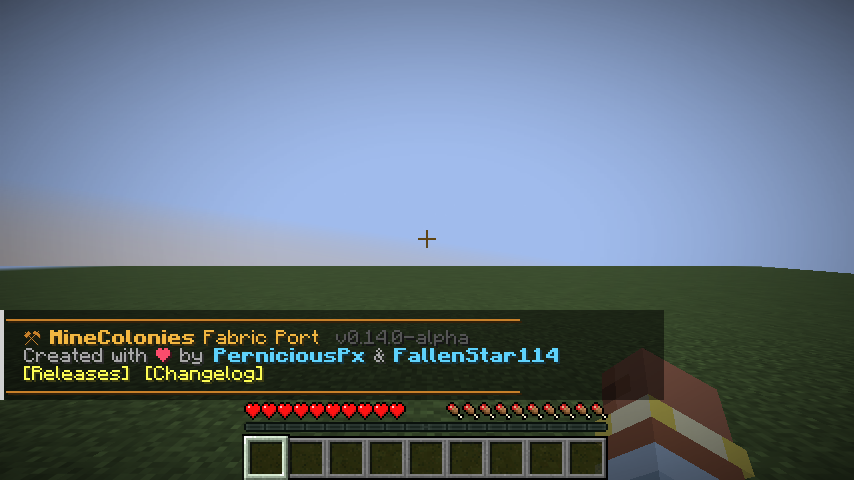
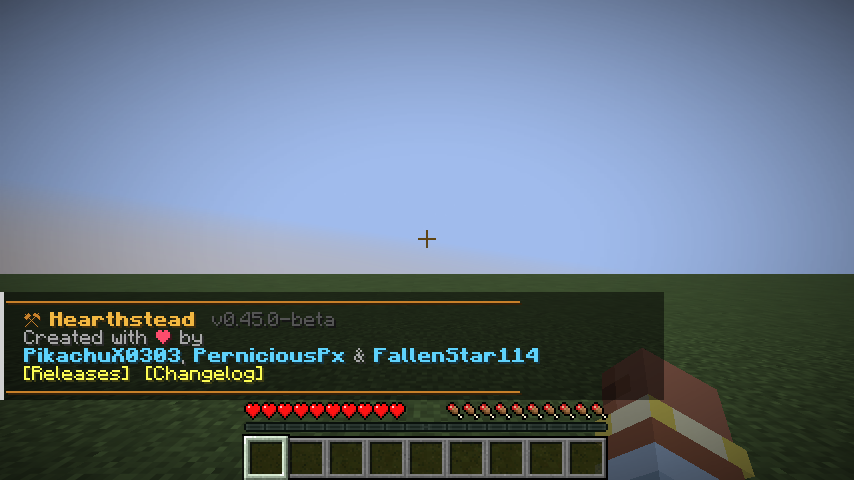
Hearthstead 0.45.0-beta: leave alpha
- Status changed to beta; the README describes what is in, what is
  still missing, and asks for backups and bug reports
- README brought up to date: requirements, every hut and town hall
  window tab, the Clipboard, all 49 blueprint folders, the colony
  distance and the build setup
- Mod icon (generated by tools/generate_textures.py), shown in Mod Menu
  and the README; homepage and issue links in fabric.mod.json
- The welcome message credits PikachuX0303, PerniciousPx and
  FallenStar114, with the names on their own line so chat does not
  wrap them
- CLAUDE.md: beta version scheme and the new generated asset

Changed region(s): [[0.0, 0.5312, 0.9742, 0.7812]]

diff --git a/tools/generate_textures.py b/tools/generate_textures.py
@@ -1,8 +1,9 @@
 #!/usr/bin/env python3
 """Draws the mod's textures: the barbarian and pirate skins (64x64, standard humanoid layout) and
-the build tool and clipboard icons (16x16).
+the build tool and clipboard icons (16x16), and the mod icon shown by Mod Menu (128x128).
 
-Output: src/main/resources/assets/hearthstead/textures/entity/barbarian/<kind>.png
+Output: src/main/resources/assets/hearthstead/icon.png
+        src/main/resources/assets/hearthstead/textures/entity/barbarian/<kind>.png
         src/main/resources/assets/hearthstead/textures/item/build_tool.png
         src/main/resources/assets/hearthstead/textures/item/clipboard.png
 """
@@ -280,7 +281,66 @@ def clipboard():
     return img
 
 
+def mod_icon():
+    """128x128 mod icon (drawn at 32x32 and scaled up): a cottage with a lit window and a smoking
+    chimney on a grassy hill at dusk."""
+    size = 32
+    img = Image.new("RGBA", (size, size), (0, 0, 0, 0))
+    rng = random.Random(11)
+    top, bottom = (40, 44, 92), (226, 128, 74)
+    for y in range(size):                   # dusk sky, rounded corners
+        t = y / (size - 1)
+        sky = tuple(round(a + (b - a) * t) for a, b in zip(top, bottom))
+        for x in range(size):
+            corner = min(x, size - 1 - x) + min(y, size - 1 - y)
+            if corner >= 2:
+                img.putpixel((x, y), sky + (255,))
+    for x, y in ((4, 4), (9, 2), (26, 3), (21, 6), (29, 9)):  # first stars
+        img.putpixel((x, y), (250, 240, 200, 255))
+    grass, grass_dark, dirt = (92, 150, 62), (66, 116, 46), (120, 84, 52)
+    for x in range(size):                   # the hill
+        crest = 23 + round(2.2 * ((x - 15.5) / 16) ** 2 * 2)
+        for y in range(crest, size):
+            corner = min(x, size - 1 - x) + min(y, size - 1 - y)
+            if corner < 2:
+                continue
+            color = grass if y - crest < 2 else (grass_dark if y - crest < 3 else dirt)
+            img.putpixel((x, y), shade(color, rng, 10))
+    wall, wall_dark, beam = (214, 196, 160), (176, 156, 120), (98, 64, 38)
+    for x in range(9, 23):                  # walls with a timber frame
+        for y in range(15, 24):
+            frame = x in (9, 22) or y in (15, 23) or x == 15
+            img.putpixel((x, y), shade(beam if frame else (wall_dark if x > 18 else wall), rng, 6))
+    roof, roof_dark = (168, 62, 44), (120, 40, 30)
+    for row in range(8):                    # gable roof
+        y = 7 + row
+        for x in range(15 - row - 1, 17 + row + 1):
+            if 7 <= x <= 24:
+                edge = x in (15 - row - 1, 16 + row)
+                img.putpixel((x, y), shade(roof_dark if edge or row == 7 else roof, rng, 8))
+    stone = (128, 124, 120)
+    for x in range(19, 22):                 # chimney
+        for y in range(6, 11):
+            img.putpixel((x, y), shade(stone, rng, 12))
+    for x, y, a in ((20, 4, 200), (21, 3, 170), (22, 1, 130), (23, 2, 110), (21, 0, 90)):  # smoke
+        img.putpixel((x, y), (214, 214, 220, a))
+    door = (110, 70, 40)
+    for x in range(11, 14):                 # door
+        for y in range(18, 23):
+            img.putpixel((x, y), shade(door, rng, 6))
+    img.putpixel((13, 20), (230, 190, 80, 255))
+    glow, glow_bright = (250, 186, 72), (255, 232, 140)
+    for x in range(17, 21):                 # warm window
+        for y in range(17, 21):
+            bright = x in (18, 19) and y in (18, 19)
+            img.putpixel((x, y), (glow_bright if bright else glow) + (255,))
+    for x in range(17, 21):
+        img.putpixel((x, 21), (beam[0], beam[1], beam[2], 255))
+    return img.resize((128, 128), Image.NEAREST)
+
+
 def main():
+    mod_icon().save(os.path.join(ITEM_OUT, "..", "..", "icon.png"))
     os.makedirs(ITEM_OUT, exist_ok=True)
     build_tool().save(os.path.join(ITEM_OUT, "build_tool.png"))
     clipboard().save(os.path.join(ITEM_OUT, "clipboard.png"))

diff --git a/src/main/java/dev/pikachux/hearthstead/event/WelcomeMessage.java b/src/main/java/dev/pikachux/hearthstead/event/WelcomeMessage.java
@@ -53,8 +53,12 @@ public final class WelcomeMessage {
                         .withStyle(ChatFormatting.GRAY))
                 .append(Component.literal(" ❤ ").withStyle(style -> style.withColor(HEART)))
                 .append(Component.translatableWithFallback("chat.hearthstead.welcome.by", "by")
-                        .withStyle(ChatFormatting.GRAY))
-                .append(Component.literal(" PerniciousPx").withStyle(style -> style.withColor(AUTHOR).withBold(true)))
+                        .withStyle(ChatFormatting.GRAY)));
+        // The three names get a line of their own so the default chat width does not wrap them.
+        player.sendSystemMessage(Component.literal("  ")
+                .append(Component.literal("PikachuX0303").withStyle(style -> style.withColor(AUTHOR).withBold(true)))
+                .append(Component.literal(", ").withStyle(ChatFormatting.GRAY))
+                .append(Component.literal("PerniciousPx").withStyle(style -> style.withColor(AUTHOR).withBold(true)))
                 .append(Component.literal(" & ").withStyle(ChatFormatting.GRAY))
                 .append(Component.literal("FallenStar114").withStyle(style -> style.withColor(AUTHOR).withBold(true))));
 

diff --git a/README.md b/README.md
@@ -1,8 +1,10 @@
 # Hearthstead (Minecraft 1.21.11, Fabric)
 
+<img src="src/main/resources/assets/hearthstead/icon.png" alt="Hearthstead icon" width="96" align="right">
+
 **Hearthstead** is a colony-building mod for Minecraft **1.21.11** on Fabric. Found a town,
-place huts, and watch citizens move in, take jobs, gather resources, research, and defend
-the town against barbarian raids.
+place huts, and watch citizens move in, take jobs, raise families, gather and craft resources,
+research, and defend the town against barbarian and pirate raids.
 
 > Hearthstead is inspired by [MineColonies](https://github.com/ldtteam/minecolonies) and started
 > out as an unofficial Fabric port of it. It is **not affiliated with or endorsed by** the
@@ -14,7 +16,8 @@ the town against barbarian raids.
 
 Get the latest jar from the [Releases page](https://github.com/PikachuX0303/Hearthstead/releases).
 Put it into your `mods` folder together with [Fabric API](https://modrinth.com/mod/fabric-api).
-See [CHANGELOG.md](CHANGELOG.md) for what changed in each version.
+It needs Minecraft 1.21.11, Fabric Loader 0.16.0 or newer and Java 21. Install it on the server
+and on every player's game. See [CHANGELOG.md](CHANGELOG.md) for what changed in each version.
 
 Optional: with [Mod Menu](https://modrinth.com/mod/modmenu) and
 [Cloth Config](https://modrinth.com/mod/cloth-config) installed, Hearthstead's settings can be
@@ -30,26 +33,33 @@ checksum) and shows a message. The new version replaces the old jar when you clo
 and is used from the next start. Change your answer later with `automaticUpdates` in the
 [config file](#configuration).
 
-## Status: early alpha
+## Status: beta
 
-Hearthstead has the core colony loop, 49 huts, citizen skills and job outfits, families, illness,
-guard classes, decorations, five building styles, research and raids. Things that are **not there
-yet** (some of which MineColonies has):
+Hearthstead is in **beta**: its main systems are in place and covered by automated game tests,
+and worlds are kept compatible from one version to the next. It may still have bugs and balance
+problems, so keep backups of worlds you care about, and please report problems on the
+[issue tracker](https://github.com/PikachuX0303/Hearthstead/issues).
+
+What is in: the colony loop, 49 huts with 39 jobs, citizen skills and job outfits, families,
+visitors and expeditions, illness, guard classes and orders, requests, postbox orders and
+teachable recipes, decorations, five building styles, research, raids, colony events,
+abandoned settlements, permissions, an in-game settings screen and 13 languages.
+
+Not there yet (some of which MineColonies has):
 
 - Hand-built style packs. The five styles are generated.
-- Settings for most huts (so far the farmer, lumberjack, miner, smeltery, cook, herders and guard
-  buildings have them).
+- Settings for the remaining huts (the farmer, lumberjack, miner, smeltery, cook, crusher,
+  sifter, herders and guard buildings have them).
 - More raider cultures (barbarians and pirates so far), more colony events.
-- Translations of the citizens' status lines and some command messages (they are still English).
+- Translated citizen status lines and command messages (they are still English).
 
 ## Languages
 
 Hearthstead is translated into English, German, French, Spanish, Italian, Brazilian Portuguese,
 Russian, Polish, Dutch, Turkish, Simplified Chinese, Japanese and Korean. Hut and job names in
-name tags, windows and chat messages follow the game language. The citizens' status lines and
-a few request names (such as "Food") are still English. Corrections from native speakers are
-welcome: the files are in
-`src/main/resources/assets/hearthstead/lang/`.
+name tags, windows and chat messages follow the game language. The citizens' status lines, most
+command output and a few request names (such as "Food") are still English. Corrections from
+native speakers are welcome: the files are in `src/main/resources/assets/hearthstead/lang/`.
 
 ## Features
 
@@ -62,8 +72,9 @@ Every hut is a wooden workbench with its job sign on the front and a fitting pro
 
 | Action | Opens |
 |---|---|
-| Right-click a hut | The **hut window**. **Overview** shows level, residents, workers and their status. **Construction** shows the work order, a progress bar and the materials list, with how many of each the Builder's Huts already hold. Buttons: **Inventory**, **Build** / **Upgrade** / **Cancel Order**. |
-| Right-click the Town Hall | The hut window plus a **Citizens** tab (every citizen with job, happiness and status) and a **Colony** tab (owner, statistics, renaming the colony, open work orders). |
+| Right-click a hut | The **hut window**. **Overview** shows level, residents, workers and their status. **Construction** shows the work order, a progress bar and the materials list, with how many of each the Builder's Huts already hold, and the **Repair** and **Deconstruct** buttons. **Requests** lists what the hut is waiting for. Depending on the hut there are also **Settings** ([hut settings](#hut-settings)), **Orders** (postbox), **Recipes** ([teaching recipes](#teaching-recipes)) and **Research** (University). Buttons: **Inventory**, **Build** / **Upgrade** / **Cancel Order**. |
+| Right-click the Town Hall | The hut window plus a **Citizens** tab (every citizen with job, happiness and status) and a **Colony** tab (owner, statistics, decorations, default style, raids on or off, renaming the colony, permissions and open work orders). |
+| Use the Clipboard | Every open request of your colony, from anywhere ([requests](#requests)). |
 | Sneak + right-click a hut | The hut's inventory directly. |
 | Right-click a citizen | The **citizen window**: a model preview, health, food and happiness bars, status, home, workplace and carried items. |
 
@@ -81,7 +92,7 @@ links to the releases and the changelog.
 
 | Feature | Details |
 |---|---|
-| **Colonies** | Place a **Town Hall** to found a colony (one per player). It claims a 129×129 area. Colonies must be at least 144 blocks apart. |
+| **Colonies** | Place a **Town Hall** to found a colony (one per player). It claims a 129×129 area (`colonyRadius` in the [config](#configuration)). Town halls must be at least 144 blocks apart (twice the radius plus 16). |
 | **Protection** | Inside a colony, players can only do what its [permissions](#permissions) allow them. Creative-mode operators can bypass this. |
 | **Citizens** | New citizens arrive every minute while there is free housing. Each one has a name, a skin, saturation and happiness. Many jobs come with their own outfit, in a male and a female version ([outfits](#job-outfits)). If a citizen goes missing (for example, unloaded), the colony respawns them at the town hall. If one dies, the owner is notified. |
 | **Housing** | Town Hall: 4 settlers per level (also 4 before it is built). Residence: 2 beds per level. |
@@ -671,7 +682,11 @@ Blueprints are vanilla structure files. The built-in ones are at
 `data/hearthstead/structure/huts/<hut>/level<1-5>.nbt`, where `<hut>` is one of
 `townhall`, `residence`, `lumberjack`, `farmer`, `miner`, `guardtower`, `warehouse`, `builder`,
 `deliveryman`, `cook`, `fisherman`, `baker`, `smelter`, `shepherd`, `university`, `composter`,
-`sawmill`, `cowhand`, `chickenherder`, `swineherd`, `stonemason`, `florist`, `dyer`, `beekeeper`, `rabbitherder`, `glassblower` and `concretemixer`.
+`sawmill`, `cowhand`, `chickenherder`, `swineherd`, `stonemason`, `florist`, `dyer`, `beekeeper`,
+`rabbitherder`, `glassblower`, `concretemixer`, `planter`, `alchemist`, `enchanter`, `crusher`,
+`sifter`, `mechanic`, `netherworker`, `blacksmith`, `fletcher`, `stonesmeltery`, `barracks`,
+`hospital`, `quarry`, `stash`, `library`, `combatacademy`, `archery`, `school`, `tavern`,
+`graveyard`, `postbox` and `mysticalsite`.
 
 To use your own design:
 1. Build it in a creative world and put the matching hut block where the hut should sit.
@@ -711,8 +726,9 @@ Requires Java 21.
 xvfb-run ./gradlew runClientGameTest   # opens every window in a real client and saves screenshots
 ```
 
-Dependencies: Fabric Loader ≥ 0.20.1 and Fabric API (0.141.6+1.21.11). The project uses
-official Mojang mappings.
+The project builds against Fabric Loader 0.20.1 and Fabric API 0.141.6+1.21.11 with official
+Mojang mappings; the jar runs on Fabric Loader 0.16.0 or newer. `tools/` holds the Python
+scripts that generate the blueprints, textures and GUI sprites.
 
 ## Credits
 

diff --git a/CHANGELOG.md b/CHANGELOG.md
@@ -3,7 +3,23 @@
 All notable changes to Hearthstead (called "MineColonies (Unofficial Fabric Port)" up to 0.16)
 are listed here.
 Versions follow [Semantic Versioning](https://semver.org/). The Minecraft version is
-part of the build metadata (for example, `0.3.0-alpha+1.21.11`).
+part of the build metadata (for example, `0.45.0-beta+1.21.11`). Versions up to 0.44.0 were
+alpha releases.
+
+## [0.45.0-beta] - 2026-11-03
+
+### Changed
+- **Hearthstead is now in beta.** Its main systems are in place and covered by game tests, and
+  worlds stay compatible between versions. Keep backups and report problems on the issue tracker.
+- The README is up to date: the beta status and what is still missing, requirements (Minecraft
+  1.21.11, Fabric Loader 0.16.0 or newer, Java 21, on server and clients), every tab of the hut
+  and town hall windows, the Clipboard, the blueprint folders of all 49 huts and how the colony
+  distance depends on the radius.
+- The chat welcome message credits PikachuX0303 as well as PerniciousPx and FallenStar114.
+
+### Added
+- A mod icon (a cottage with a lit window at dusk), shown in Mod Menu and the README.
+- Homepage and issue tracker links in the mod list.
 
 ## [0.44.0-alpha] - 2026-11-03
 

diff --git a/CLAUDE.md b/CLAUDE.md
@@ -12,7 +12,8 @@ and the chat welcome message (`event/WelcomeMessage.java`).
 
 ## Releasing (do this with every change that is pushed)
 
-1. Bump `mod_version` in `gradle.properties` (`MAJOR.MINOR.PATCH-alpha+1.21.11`):
+1. Bump `mod_version` in `gradle.properties` (`MAJOR.MINOR.PATCH-beta+1.21.11`; the mod left
+   alpha with 0.45.0):
    new features bump MINOR, fixes only bump PATCH.
 2. Add a section `## [<version without +1.21.11>] - <date>` at the top of `CHANGELOG.md`
    with Added / Changed / Fixed lists.
@@ -37,7 +38,8 @@ download section and in `fabric.mod.json` `depends` (optional ones in `suggests`
 
 - `tools/generate_schematics.py`: hut and decoration blueprints for every style, and the
   decoration icons (`decoration_icons.json`).
-- `tools/generate_textures.py`: barbarian skins and the Build Tool and Clipboard icons.
+- `tools/generate_textures.py`: barbarian and pirate skins, the Build Tool and Clipboard icons and
+  the mod icon (`assets/hearthstead/icon.png`).
 - `tools/generate_ui.py`: hut block textures, hut block models and the GUI theme sprites.
 - `tools/generate_worldgen.py`: structure templates for world generation (abandoned settlement).
 
